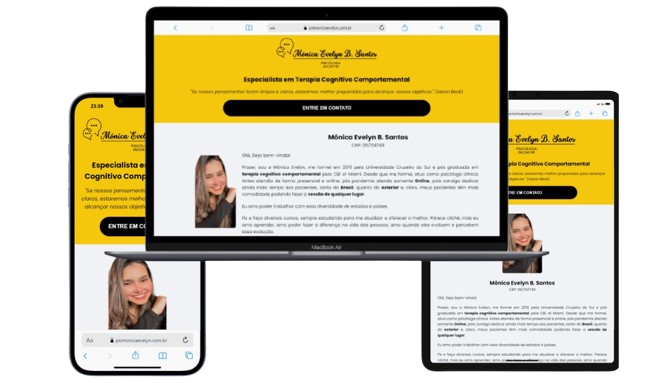
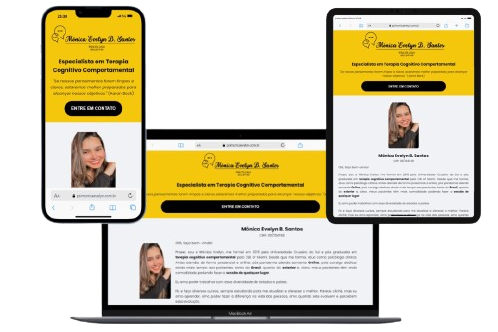
Add files via upload

diff --git a/style.css b/style.css
@@ -203,7 +203,7 @@ footer > ul {
 }
 
 .foto-psi {
-    width: 25vw;
+    width: 300px;
 }
 
 a {
@@ -268,7 +268,7 @@ a {
 
     .foto-psi {
         width: 150px;
-        height: 80px;
+        height: 100px;
     }
 
     .deslizar > p {
@@ -361,8 +361,8 @@ a {
     }
 
     .foto-psi {
-        width: 220px;
-        height: 100px;
+        width: 200px;
+        height: 130px;
     }
 
     .deslizar > p {
